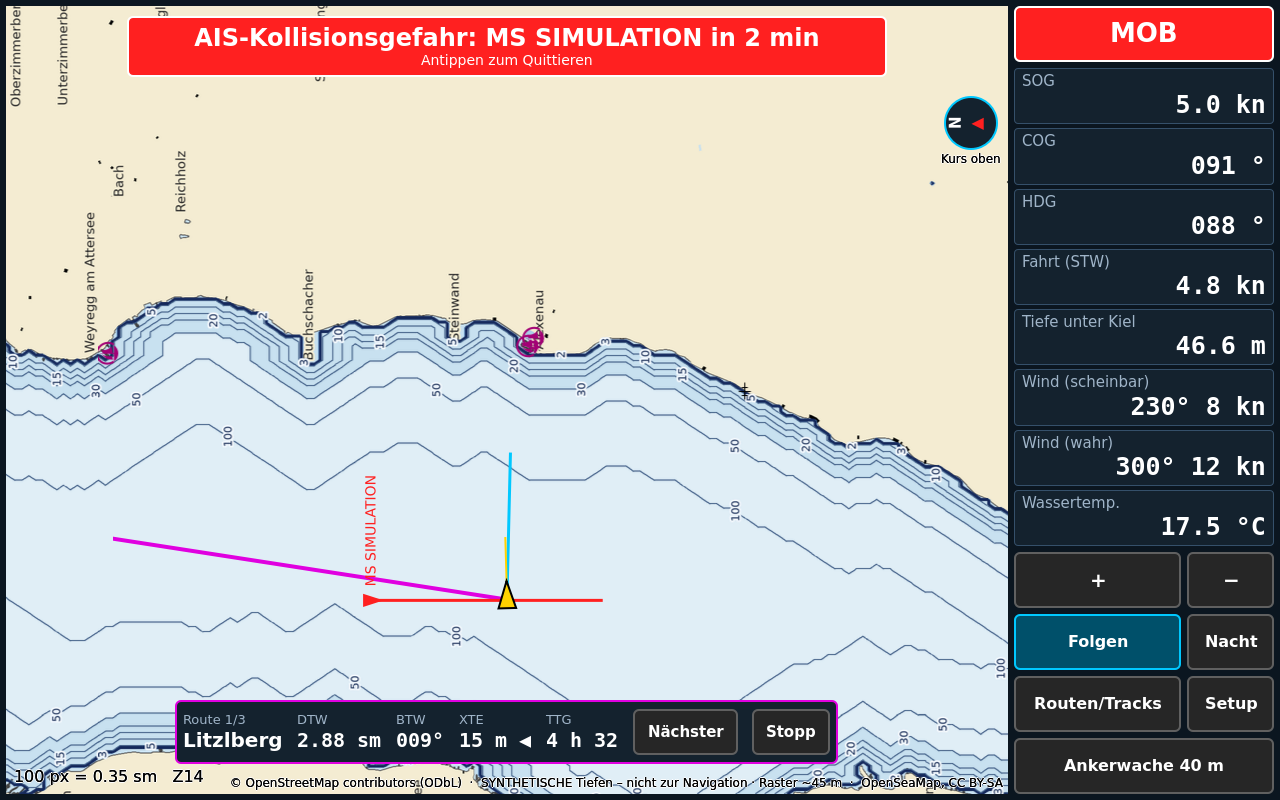
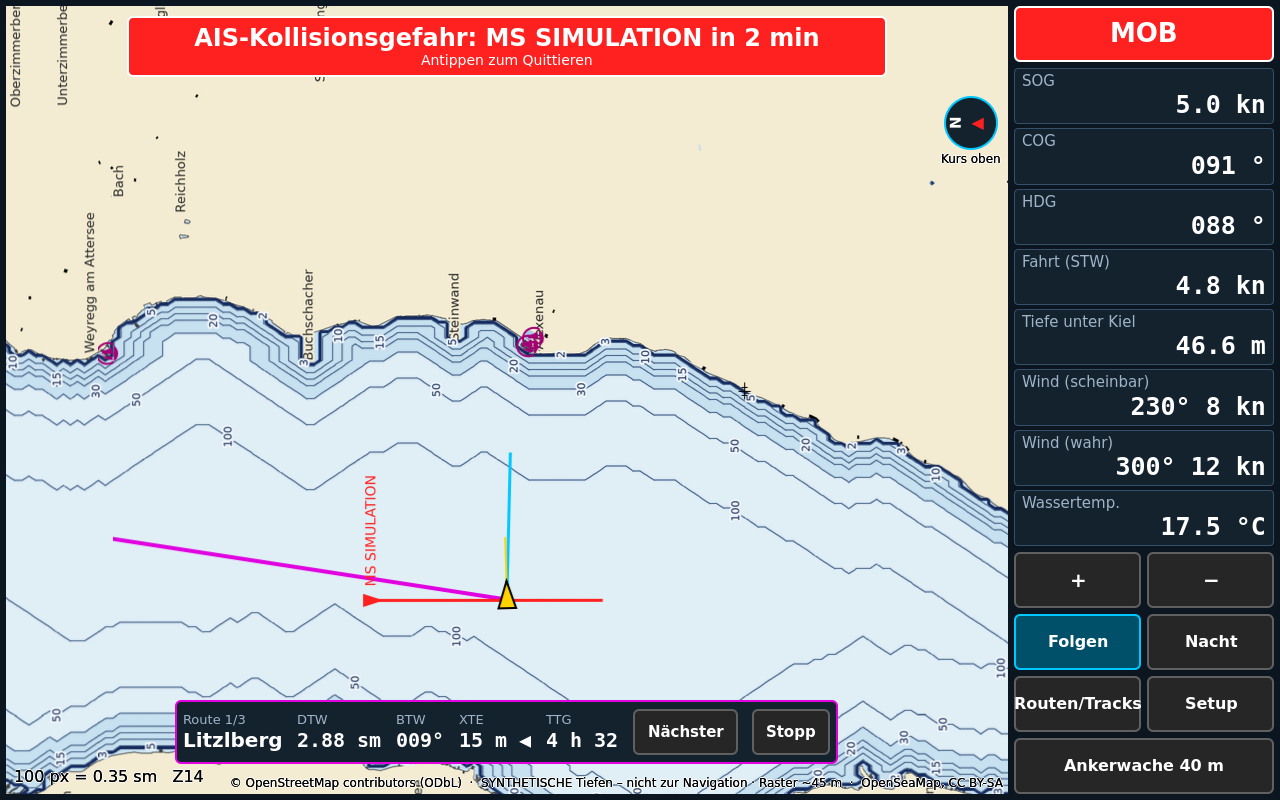
Smaller label for the routes/tracks key; screenshots

diff --git a/src/app/qml/Main.qml b/src/app/qml/Main.qml
@@ -208,7 +208,7 @@ Window {
                 }
                 TouchButton {
                     Layout.fillWidth: true; Layout.preferredWidth: 100  /* equal columns */
-                    fontSize: 16
+                    fontSize: 14
                     text: "Routen/Tracks"
                     checked: navPage.visible
                     onClicked: { settingsPage.visible = false; navPage.visible = !navPage.visible; }
